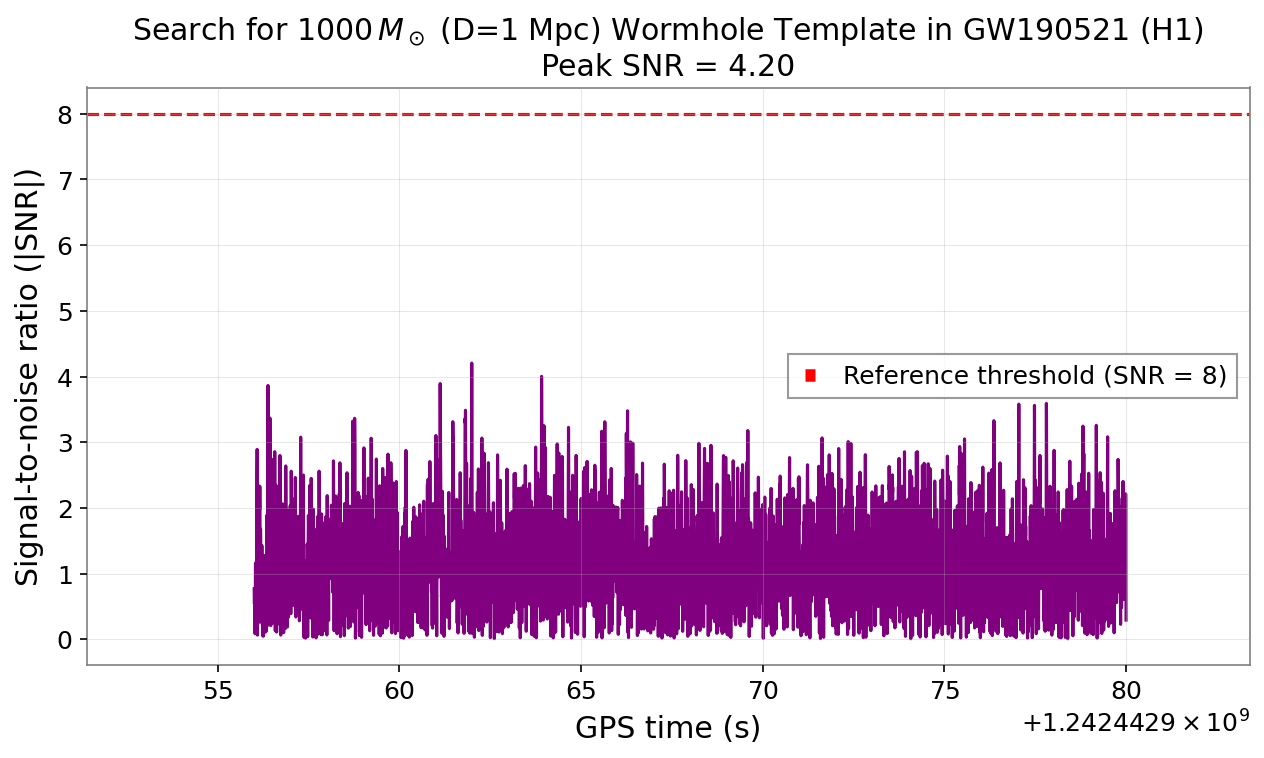
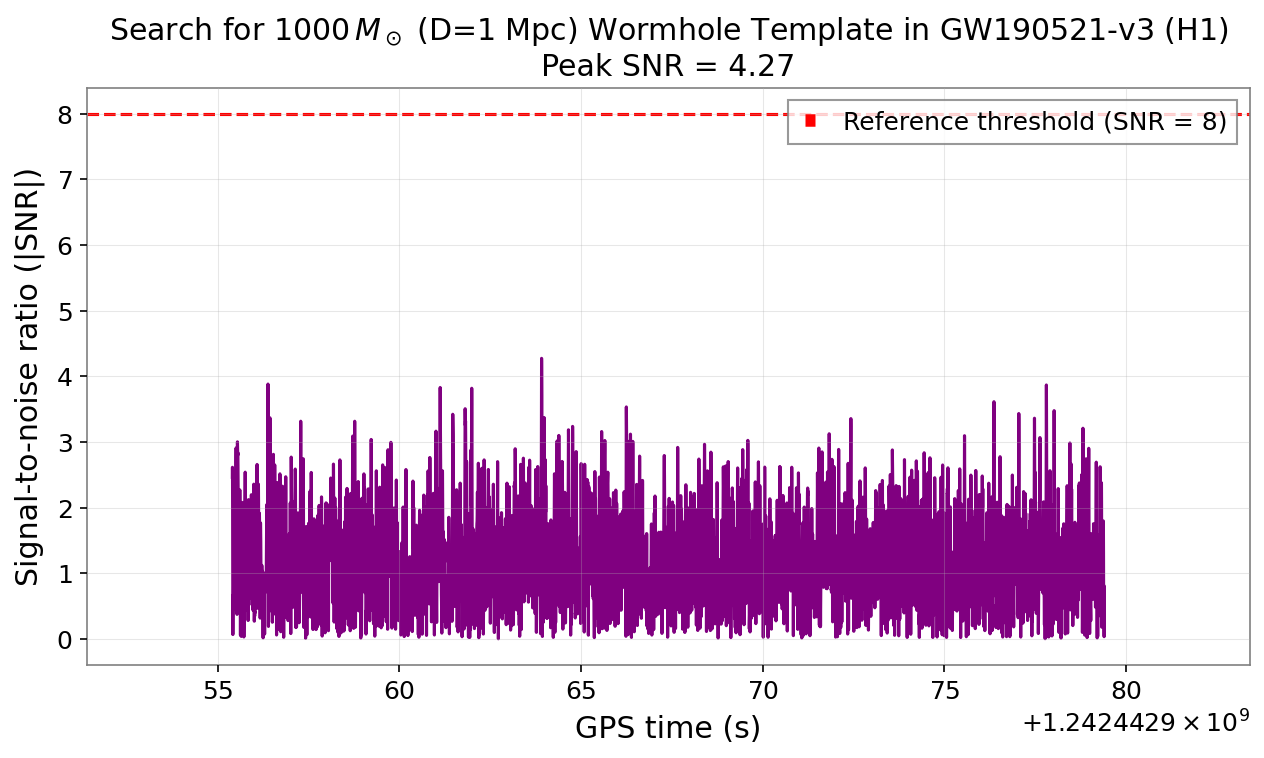
fix: fix search script

diff --git a/src/search/main.py b/src/search/main.py
@@ -4,6 +4,10 @@ Search public LIGO data for a wormhole collapse transient.
 This script uses the simulated Psi4 waveform to build a template,
 downloads GW190521 data from GWOSC, and performs matched filtering.
 
+Run from the repository root (``-m`` takes a module name, not ``*.py``)::
+
+    python -m src.search.main
+
 Dependencies:
     pip install pycbc gwpy scipy numpy matplotlib
 """
@@ -89,21 +93,29 @@ def _gwosc_fetch_worker_range(
     sample_rate: int,
     host: str,
     cache: bool,
+    request_timeout_s: float | None,
     out_q: "mp.Queue",
+    tmp_file: str,
 ) -> None:
     """Module-scope worker for multiprocessing 'spawn' (must be picklable)."""
     try:
+        kw = {}
+        if request_timeout_s is not None:
+            kw["timeout"] = float(request_timeout_s)
         gw = GwpyTimeSeries.fetch_open_data(
             ifo,
             float(start),
             float(end),
-            sample_rate=float(sample_rate),
+            sample_rate=int(sample_rate),
             host=host,
             cache=cache,
+            **kw,
         )
-        out_q.put(("ok", (np.asarray(gw.value, dtype=np.float64), float(gw.dt.value), float(gw.t0.value))))
+        # Save to disk instead of pipe to avoid deadlocks with large arrays
+        np.savez(tmp_file, values=np.asarray(gw.value, dtype=np.float64), dt=float(gw.dt.value), epoch=float(gw.t0.value))
+        out_q.put("ok")
     except Exception as e:
-        out_q.put(("err", repr(e)))
+        out_q.put(repr(e))
 
 
 def _gwosc_fetch_worker(
@@ -112,22 +124,30 @@ def _gwosc_fetch_worker(
     sample_rate: int,
     host: str,
     cache: bool,
+    request_timeout_s: float | None,
     out_q: "mp.Queue",
+    tmp_file: str,
 ) -> None:
     """Module-scope worker for multiprocessing 'spawn' (must be picklable)."""
     try:
         start, end = _select_strain_segment(event_dict, ifo=ifo, sample_rate=sample_rate)
+        kw = {}
+        if request_timeout_s is not None:
+            kw["timeout"] = float(request_timeout_s)
         gw = GwpyTimeSeries.fetch_open_data(
             ifo,
             start,
             end,
-            sample_rate=sample_rate,
+            sample_rate=int(sample_rate),
             host=host,
             cache=cache,
+            **kw,
         )
-        out_q.put(("ok", (np.asarray(gw.value, dtype=np.float64), float(gw.dt.value), float(gw.t0.value))))
+        # Save to disk instead of pipe to avoid deadlocks with large arrays
+        np.savez(tmp_file, values=np.asarray(gw.value, dtype=np.float64), dt=float(gw.dt.value), epoch=float(gw.t0.value))
+        out_q.put("ok")
     except Exception as e:
-        out_q.put(("err", repr(e)))
+        out_q.put(repr(e))
 
 
 def _fetch_open_data_pycbc_with_timeout(
@@ -141,29 +161,61 @@ def _fetch_open_data_pycbc_with_timeout(
     gwosc_request_timeout_s: float | None = 20.0,
 ) -> TimeSeries:
     """GWOSC fetch with a hard wall-clock timeout (separate process)."""
+    import queue
+    import tempfile
+    import os
+
+    # Before spawning process, see if we already have the cached .npz
+    # (Optional explicit caching beyond what gwpy does)
+    start, end = _select_strain_segment(event_dict, ifo=ifo, sample_rate=sample_rate)
+    cache_dir = Path(__file__).parent / "data_cache"
+    cache_dir.mkdir(exist_ok=True)
+    cache_file = cache_dir / f"{ifo}_{start}_{end}_{sample_rate}.npz"
+    
+    if cache_file.exists():
+        print(f"Loading {ifo} data from local disk cache: {cache_file.name}")
+        data = np.load(str(cache_file))
+        return TimeSeries(data["values"], delta_t=float(data["dt"]), epoch=float(data["epoch"]))
 
     ctx = mp.get_context("spawn")
     q: mp.Queue = ctx.Queue(maxsize=1)
+    
+    # We will tell the worker to save directly to the cache_file
+    tmp_path = str(cache_file)
+    
     p = ctx.Process(
         target=_gwosc_fetch_worker,
-        args=(event_dict, ifo, sample_rate, host, cache, q),
+        args=(event_dict, ifo, sample_rate, host, cache, gwosc_request_timeout_s, q, tmp_path),
         daemon=True,
     )
     p.start()
-    p.join(timeout_s)
-    if p.is_alive():
+    
+    try:
+        status = q.get(timeout=float(timeout_s))
+    except queue.Empty:
         p.terminate()
         p.join(2.0)
+        if os.path.exists(tmp_path):
+            try:
+                os.remove(tmp_path)
+            except OSError:
+                pass
         raise TimeoutError(f"Downloading data timed out after {timeout_s:.0f} seconds")
 
-    if q.empty():
-        raise RuntimeError("GWOSC fetch failed without returning an error message.")
+    p.join(2.0)
 
-    status, payload = q.get()
     if status != "ok":
-        raise RuntimeError(f"GWOSC fetch failed: {payload}")
+        if os.path.exists(tmp_path):
+            try:
+                os.remove(tmp_path)
+            except OSError:
+                pass
+        raise RuntimeError(f"GWOSC fetch failed: {status}")
 
-    values, dt, epoch = payload
+    data = np.load(tmp_path)
+    values = data["values"]
+    dt = float(data["dt"])
+    epoch = float(data["epoch"])
     return TimeSeries(values, delta_t=dt, epoch=epoch)
 
 
@@ -179,28 +231,57 @@ def _fetch_open_data_range_pycbc_with_timeout(
     gwosc_request_timeout_s: float | None = 30.0,
 ) -> TimeSeries:
     """Fetch an explicit [start, end) GPS window with a hard wall-clock timeout."""
+    import queue
+    import tempfile
+    import os
+
+    cache_dir = Path(__file__).parent / "data_cache"
+    cache_dir.mkdir(exist_ok=True)
+    cache_file = cache_dir / f"{ifo}_{float(start)}_{float(end)}_{sample_rate}.npz"
+
+    if cache_file.exists():
+        print(f"Loading {ifo} data from local disk cache: {cache_file.name}")
+        data = np.load(str(cache_file))
+        return TimeSeries(data["values"], delta_t=float(data["dt"]), epoch=float(data["epoch"]))
+
     ctx = mp.get_context("spawn")
     q: mp.Queue = ctx.Queue(maxsize=1)
+    
+    tmp_path = str(cache_file)
+
     p = ctx.Process(
         target=_gwosc_fetch_worker_range,
-        args=(ifo, float(start), float(end), int(sample_rate), host, cache, q),
+        args=(ifo, float(start), float(end), int(sample_rate), host, cache, gwosc_request_timeout_s, q, tmp_path),
         daemon=True,
     )
     p.start()
-    p.join(float(timeout_s))
-    if p.is_alive():
+    
+    try:
+        status = q.get(timeout=float(timeout_s))
+    except queue.Empty:
         p.terminate()
         p.join(2.0)
+        if os.path.exists(tmp_path):
+            try:
+                os.remove(tmp_path)
+            except OSError:
+                pass
         raise TimeoutError(f"Downloading data timed out after {timeout_s:.0f} seconds")
 
-    if q.empty():
-        raise RuntimeError("GWOSC fetch failed without returning an error message.")
+    p.join(2.0)
 
-    status, payload = q.get()
     if status != "ok":
-        raise RuntimeError(f"GWOSC fetch failed: {payload}")
+        if os.path.exists(tmp_path):
+            try:
+                os.remove(tmp_path)
+            except OSError:
+                pass
+        raise RuntimeError(f"GWOSC fetch failed: {status}")
 
-    values, dt, epoch = payload
+    data = np.load(tmp_path)
+    values = data["values"]
+    dt = float(data["dt"])
+    epoch = float(data["epoch"])
     return TimeSeries(values, delta_t=dt, epoch=epoch)
 
 
@@ -212,7 +293,7 @@ def main(argv: list[str] | None = None) -> int:
         help="Path to extracted psi4_mode_l2m0.dat (override with your simulation output)",
     )
     p.add_argument("--mass-msun", type=float, default=1000.0, help="Template mass in solar masses")
-    p.add_argument("--distance-mpc", type=float, default=1.0, help="Template distance in Mpc")
+    p.add_argument("--distance-mpc", type=float, default=0.002, help="Template distance in Mpc (e.g. 0.002 for 2 kpc)")
     p.add_argument("--catalog", default="GWTC-2", help="PyCBC catalog name (e.g. GWTC-2)")
     p.add_argument(
         "--event",
